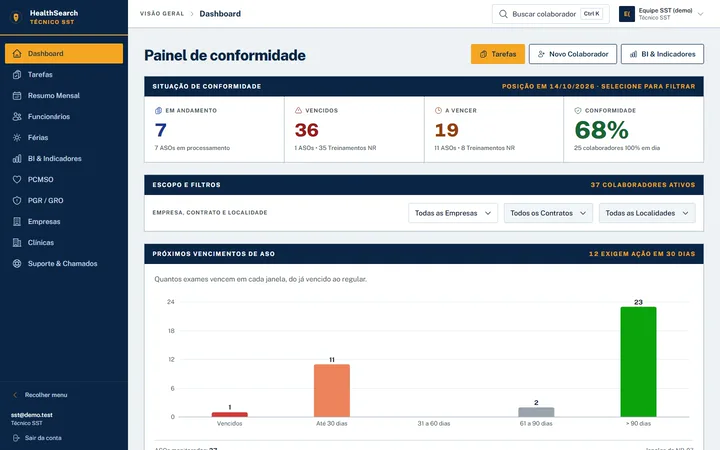
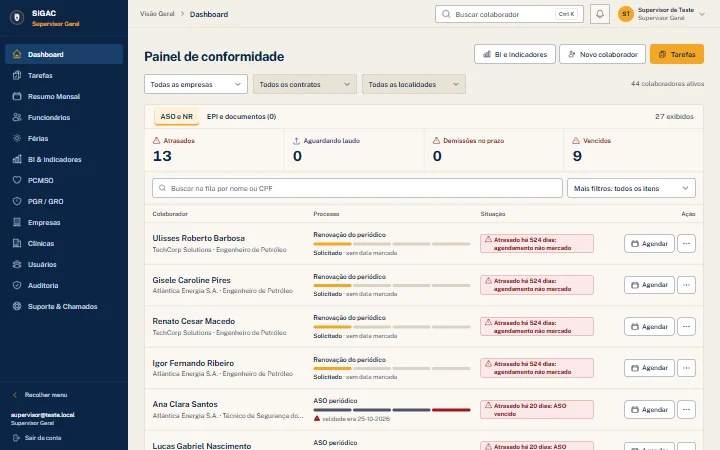
feat(sigac): atualiza telas para a interface atual e adiciona BI e login

diff --git a/src/pages/sigac.jsx b/src/pages/sigac.jsx
@@ -309,11 +309,11 @@ function SIGAC() {
           <Shot
             className="mt-14"
             src="/assets/projetos/sigac/screens/ficha-colaborador.webp"
-            alt={t('SIGAC: ficha do funcionário com dados, NRs aplicáveis e histórico de ASOs', 'SIGAC: employee profile with details, applicable NRs and exam history')}
+            alt={t('SIGAC: ficha do funcionário com identificação, vínculo, condições de trabalho e NRs aplicáveis', 'SIGAC: employee profile with identification, employment, working conditions and applicable NRs')}
             width={1440}
             height={900}
-            url="/funcionarios/func_003"
-            caption={t('Ficha do funcionário: vínculo, NRs aplicáveis e histórico de ASOs com status', 'Employee profile: employment, applicable NRs and exam history with status')}
+            url="/funcionarios/func_doc_23"
+            caption={t('Ficha do funcionário: identificação, vínculo, condições de trabalho e NRs aplicáveis', 'Employee profile: identification, employment, working conditions and applicable NRs')}
           />
         </div>
       </section>
@@ -356,11 +356,11 @@ function SIGAC() {
           <div className="mt-12 grid gap-12 lg:grid-cols-[1.25fr_1fr] lg:gap-16">
             <Shot
               src="/assets/projetos/sigac/screens/dashboard.webp"
-              alt={t('SIGAC: painel de conformidade com ASOs vencidos, a vencer e gráfico de vencimentos', 'SIGAC: compliance dashboard with expired and due exams and an expiry chart')}
+              alt={t('SIGAC: painel de conformidade com a fila de ação de ASOs e NRs, filtros por empresa, contrato e localidade', 'SIGAC: compliance dashboard with the ASO and NR action queue and company, contract and site filters')}
               width={1440}
               height={900}
               url="/dashboard"
-              caption={t('Painel de conformidade: situação dos ASOs, filtros por empresa e próximos vencimentos', 'Compliance dashboard: exam status, company filters and upcoming expirations')}
+              caption={t('Painel de conformidade: fila de ação de ASOs e NRs, com filtros por empresa, contrato e localidade', 'Compliance dashboard: ASO and NR action queue with company, contract and site filters')}
             />
             <dl className="border-t border-line">
               {[
@@ -375,6 +375,38 @@ function SIGAC() {
                 </div>
               ))}
             </dl>
+          </div>
+        </div>
+      </section>
+
+      <section className="section border-t border-line" aria-labelledby="more-title">
+        <div data-reveal className="wrap">
+          <H2 id="more-title">{t('Indicadores e acesso seguro', 'Analytics and secure access')}</H2>
+          <p className="lead mt-6">
+            <T
+              pt="O BI mostra onde a operação está irregular e como chegou ali; o acesso é por e-mail corporativo, com sessão que encerra após 8 horas sem uso."
+              en="The BI view shows where the operation is out of compliance and how it got there; access is by corporate email, with a session that ends after 8 hours of inactivity."
+            />
+          </p>
+          <div className="mt-12 grid gap-10 lg:grid-cols-2">
+            <Shot
+              src="/assets/projetos/sigac/screens/bi.webp"
+              alt={t('SIGAC: BI e indicadores com ASOs vencidos, a vencer e taxa de conformidade', 'SIGAC: BI and indicators with expired and due exams and compliance rate')}
+              width={1440}
+              height={900}
+              url="/bi"
+              caption={t('BI e indicadores: irregularidades, treinamentos, exames e gastos', 'BI and indicators: irregularities, training, exams and costs')}
+              sizes="(min-width: 1024px) 50vw, 100vw"
+            />
+            <Shot
+              src="/assets/projetos/sigac/screens/login.webp"
+              alt={t('SIGAC: tela de login com e-mail corporativo e selo do sistema', 'SIGAC: login screen with corporate email and the system seal')}
+              width={1440}
+              height={900}
+              url="/login"
+              caption={t('Tela de entrada com e-mail corporativo e recuperação de senha', 'Sign-in screen with corporate email and password recovery')}
+              sizes="(min-width: 1024px) 50vw, 100vw"
+            />
           </div>
         </div>
       </section>
